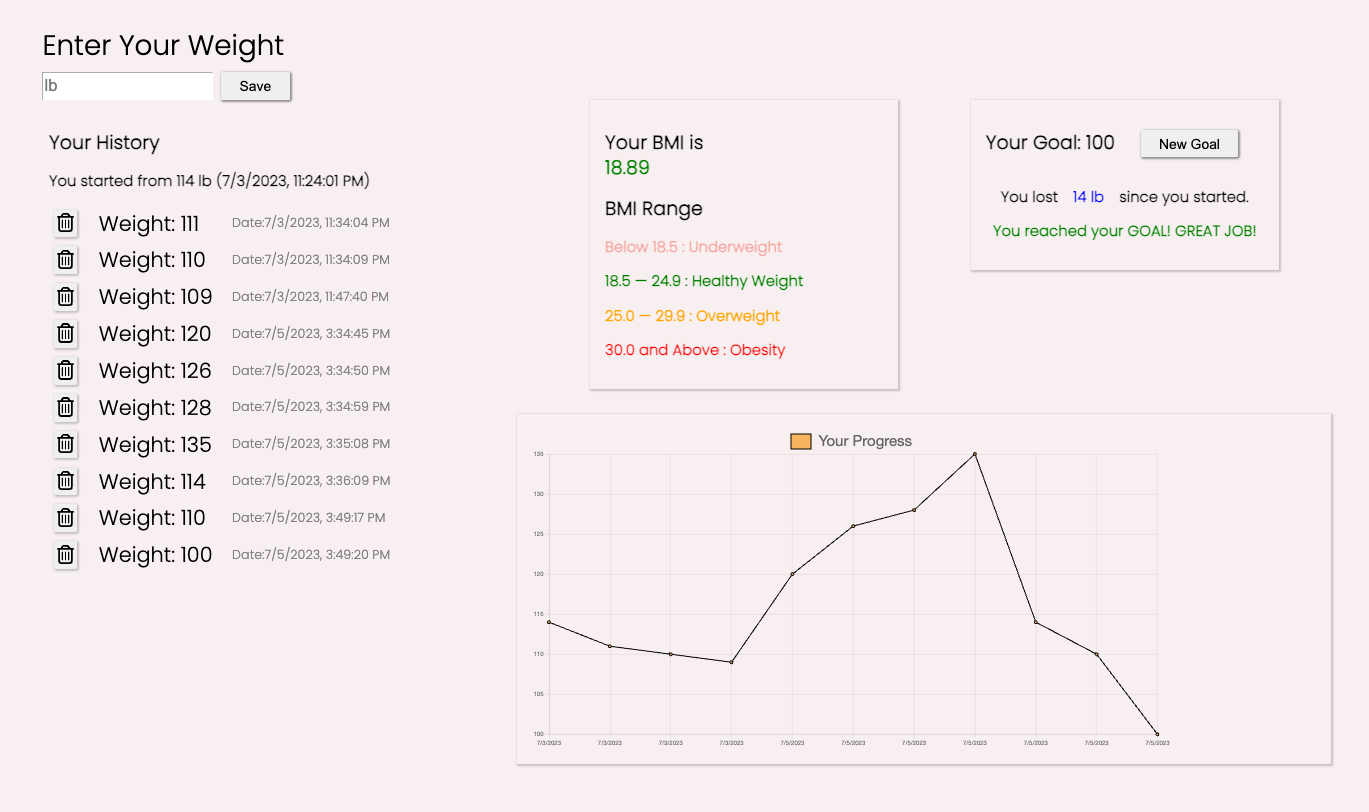
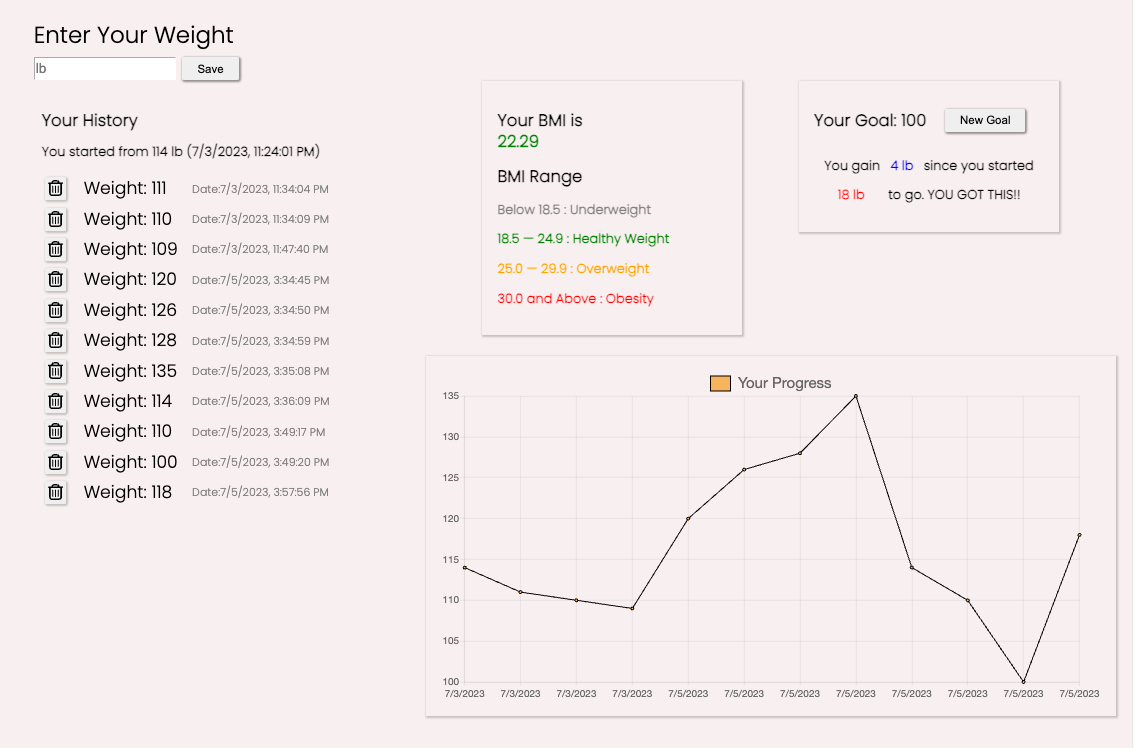
fixed chart font size

diff --git a/src/components/BMI.jsx b/src/components/BMI.jsx
@@ -31,7 +31,7 @@ export const BMI = ({ historyData }) => {
     //   BMI = (((historyCopy[historyCopy.length - 1].weight) / (userInfoCopy[0].height) ** 2) * 703).toFixed(2);
     // }
     if (BMI < 18.5) {
-      BMI = <div style={{ color: '#f5a59f' }}>{BMI}</div>;
+      BMI = <div style={{ color: 'grey' }}>{BMI}</div>;
     } else if (BMI >= 18.5 && BMI <25) {
       BMI = <div style={{ color: 'green' }}>{BMI}</div>
     }
@@ -52,7 +52,7 @@ export const BMI = ({ historyData }) => {
           {/* <h2>Your BMI is {BMI!==null? BMI: noBMI}</h2> */}
           <h2>Your BMI is {BMI}</h2>
           <h2>BMI Range</h2>
-          <div style={{ color: '#f5a59f' }}><h3>Below 18.5 : Underweight</h3></div>
+          <div style={{ color: 'grey' }}><h3>Below 18.5 : Underweight</h3></div>
           <div style={{ color: 'green' }}><h3>18.5 — 24.9 : Healthy Weight</h3></div>
           <div style={{ color: 'orange' }}><h3>25.0 — 29.9 : Overweight</h3></div>
           <div style={{ color: 'red' }}><h3>30.0 and Above : Obesity</h3></div>

diff --git a/src/components/Chart2.jsx b/src/components/Chart2.jsx
@@ -28,12 +28,26 @@ const BarChart = ({historyData}) => {
       <Line
         data={chartData}
         options={{
+          responsive: true,
           maintainAspectRatio: true,
           scales: {
             x: {
-                type: 'category',
-                labels: date
-            }
+              type: 'category',
+              labels: date,
+              ticks: {
+                font: {
+                  size: 20 ,
+                }
+              }
+            },
+            y: {
+
+              ticks: {
+                font: {
+                  size: 20,
+                }
+              }
+            },
           },
           
         plugins: {

diff --git a/src/styles.css b/src/styles.css
@@ -276,19 +276,24 @@ font-weight: bold;
 }
 
 #userChart{
-  height: 44%;
-  width: 94%;
+  /* height: 44%;
+  width: 94%; */
   padding: 30px;
   outline: none;
   box-shadow: 2px 2px 4px 2px rgba(0,0,0,.2);
   min-width: 20vw;
 }
 
-/* #userChart{
-  height: 100%;
+#userChart canvas{
   width: 100%;
+}
 
-} */
+canvas{
+
+  width:100% !important;
+  height:600% !important;
+
+}
 /* #save{
   margin-left: 1%;
 } */
